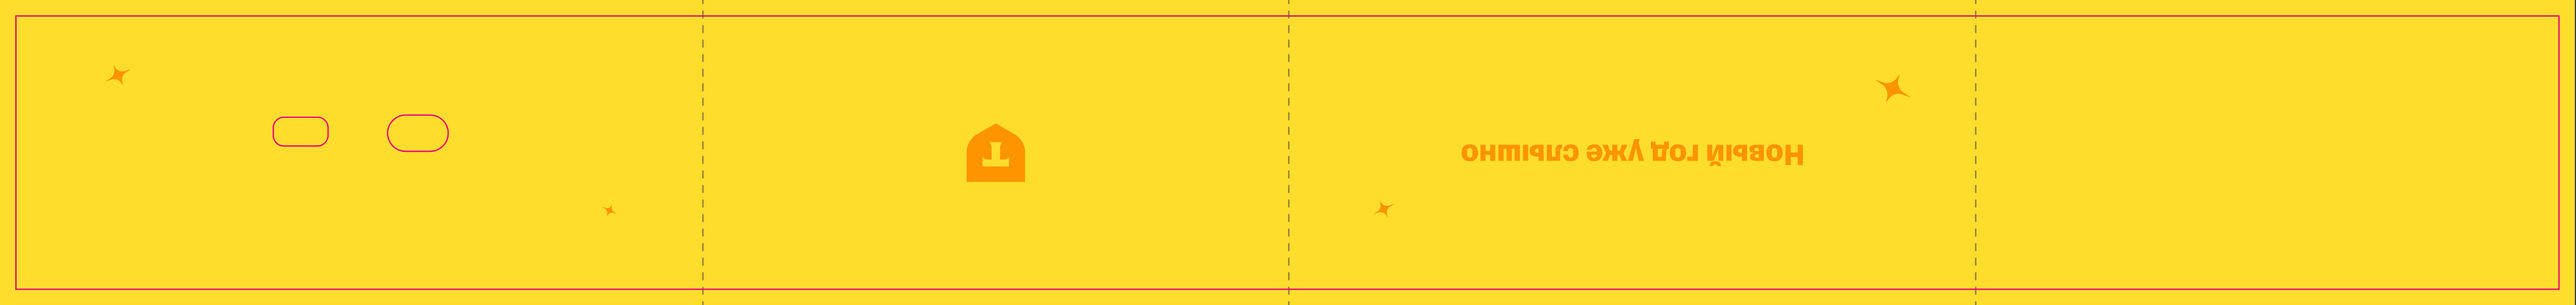
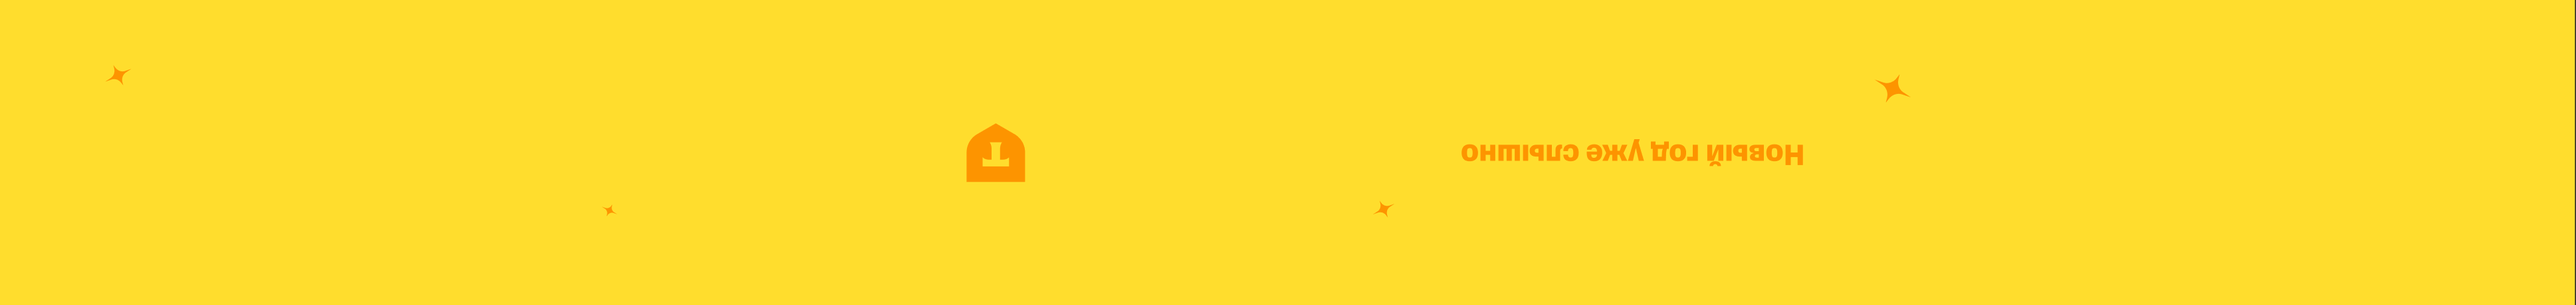
Device stickers: color + mono 1 + mono 2, clean wall textures without cut lines

diff --git a/stickers.html b/stickers.html
@@ -43,7 +43,7 @@
     <button data-v="t">Сверху</button>
     <button data-v="f">Фасад</button>
   </div>
-  <div class="copy"><button data-dv="3" class="on">Цветной · надпись 1</button><button data-dv="5">Цветной · надпись 2</button><button data-dv="4">Цветной · трек</button></div>
+  <div class="copy"><button data-dv="3" class="on">Цветной</button><button data-dv="0">Монохром · надпись 1</button><button data-dv="1">Монохром · надпись 2</button></div>
   <div class="vnote" id="vnote">Надпись — на левой боковой стенке</div>
 </div>
 
@@ -119,7 +119,7 @@ const revHole=p=>{const q=new THREE.Path(p.getPoints(24).reverse());return q};
 /* наклейки — картинки из Фигмы (кадр 3381:63285, 4 px = 1 мм, с вылетами 3 мм): фасад 115×134, лента 484,3×57,3 */
 const TL=new THREE.TextureLoader();
 const ldT=u=>{const t=TL.load(u);t.colorSpace=THREE.SRGBColorSpace;t.anisotropy=8;return t};
-const facTexs=[ldT('tex/facade.png?v=9'),ldT('tex/facade-inscription-2.png?v=3'),ldT('tex/facade-track.png?v=6'),ldT('tex/facade-color-2.png?v=5'),ldT('tex/facade-color-track.png?v=6'),ldT('tex/facade-color-m2.png?v=2')], tapeTex=[ldT('tex/tape1.png?v=6'),ldT('tex/tape2.png?v=6'),ldT('tex/tape-logo.png?v=4'),ldT('tex/tape-color.png?v=6'),ldT('tex/tape-color-track.png?v=1'),ldT('tex/tape-color-m2.png?v=3')];
+const facTexs=[ldT('tex/facade.png?v=9'),ldT('tex/facade-inscription-2.png?v=3'),ldT('tex/facade-track.png?v=6'),ldT('tex/facade-color-2.png?v=5'),ldT('tex/facade-color-track.png?v=6'),ldT('tex/facade-color-m2.png?v=2')], tapeTex=[ldT('tex/tape1.png?v=7'),ldT('tex/tape2.png?v=7'),ldT('tex/tape-logo.png?v=4'),ldT('tex/tape-color.png?v=6'),ldT('tex/tape-color-track.png?v=1'),ldT('tex/tape-color-m2.png?v=3')];
 const mFac=new THREE.MeshStandardMaterial({map:facTexs[3],roughness:.42,polygonOffset:true,polygonOffsetFactor:-2});
 const mTape=new THREE.MeshStandardMaterial({map:tapeTex[3],roughness:.42,side:THREE.DoubleSide,polygonOffset:true,polygonOffsetFactor:-2});
 function drawCopy(i){mTape.map=tapeTex[i];mTape.needsUpdate=true}
